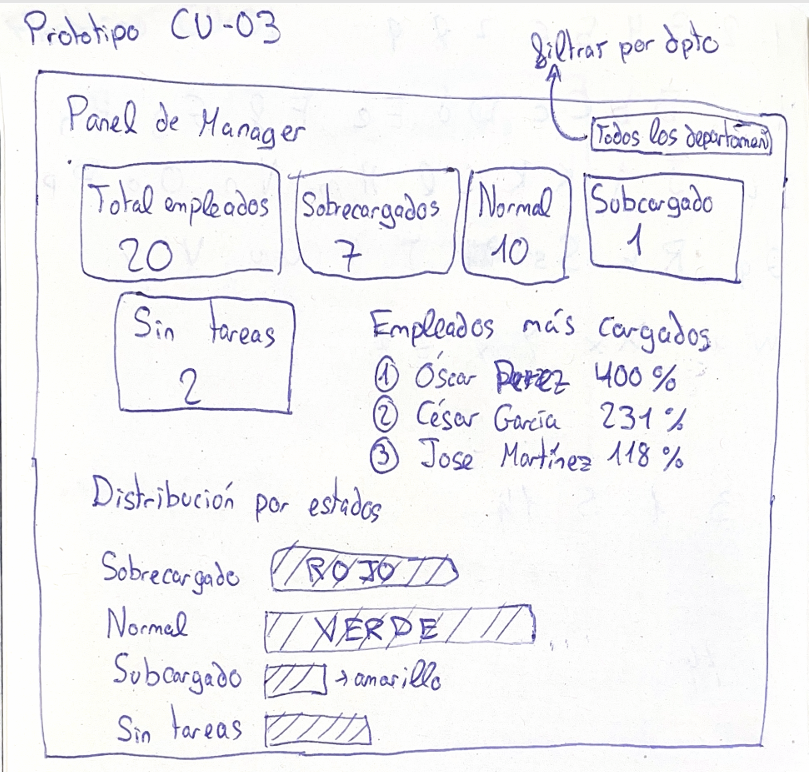
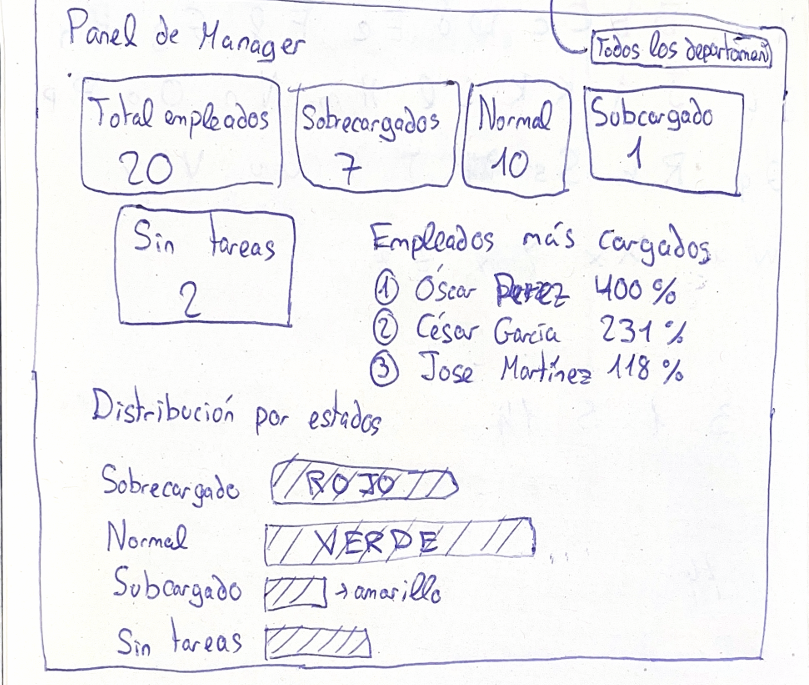
documentación de las vistas realizada

diff --git a/Estudiantes/cesar-garcia-eguiguren/Capítulo-2/DisciplinaDeRequisitos.md b/Estudiantes/cesar-garcia-eguiguren/Capítulo-2/DisciplinaDeRequisitos.md
@@ -52,7 +52,7 @@ Los CU de resumen son el "dashboard analítico" de cada entidad: agregan KPIs, m
 
 ### 1.3 Identificación de Casos de Uso
 
-A continuación se presenta la lista completa de los 24 casos de uso identificados, organizados en 8 paquetes.
+A continuación se presenta la lista completa de los 27 casos de uso identificados, organizados en 9 paquetes.
 
 #### Paquete 1 – Autenticación
 
@@ -629,12 +629,32 @@ Todos los casos de uso existentes para esta solución están documentados aquí:
 
 Los prototipos de baja fidelidad presentados a continuación representan la disposición visual de cada pantalla del sistema. Cada prototipo ilustra la estructura de la interfaz, la organización de los datos y los puntos de interacción disponibles para el usuario, sirviendo como referencia para la implementación del frontend en React.
 
+>Además de los prototipos asociados a casos de uso, el sistema incluye las siguientes pantallas de navegación y agregación que actúan como punto de entrada y supervisión global. No constituyen casos de uso en sí mismas, sino vistas compuestas que consolidan información procedente de múltiples casos de uso ya documentados.
+
+---
+
+### Pantalla de inicio — `/`
+
+Dashboard de bienvenida que actúa como punto de entrada al sistema tras completar CU-01. Muestra en la parte superior un banner de alertas activas (tareas vencidas sin cerrar y empleados sobrecargados) con navegación directa a los listados correspondientes. La sección central presenta cuatro KPIs globales (proyectos activos, empleados activos, tareas abiertas y tareas vencidas) y un gráfico de área con la evolución de horas imputadas en los últimos 14 días. En la parte inferior, un panel de salud operativa muestra los indicadores de cumplimiento de plazos, tasa de retrabajo y lead time con semáforo de color, junto a la distribución del equipo por estado de carga. Un panel de acceso rápido permite navegar directamente a cualquier sección del sistema.
+
+![Pantalla de inicio](./imagenes/prototipado/Vista-Overview.png)
+
+---
+
+### Pantalla de gestión de equipo — `/manager`
+
+Pantalla orientada a la supervisión de la distribución de carga de trabajo de toda la organización. Presenta cinco tarjetas numéricas con el total de empleados desglosado por estado (total, sobrecargado, normal, subcargado, sin tareas), cada una clickable para filtrar el listado inferior. La mitad derecha muestra un gráfico de barras horizontal con la distribución por estados, también interactivo. Al seleccionar un estado, se despliega un listado paginado de empleados con su porcentaje de carga, horas pendientes y barra de progreso, ordenable por cualquier columna con ordenación global server-side. Incluye un selector de departamento para restringir el análisis a un área concreta. Cada empleado del listado navega a CU-03.
+
+![Pantalla de gestión de equipo](./imagenes/prototipado/vista-Manager.png)
+
+---
+
 ### Prototipo CU-01 – Autenticarse
 Formulario de login centrado con campos de usuario y contraseña, botón de acceso y área de mensajes de error. Incluye el logo de la aplicación y la indicación de acceso restringido.
 
 ![Prototipo de autenticación](./imagenes/prototipado/CU-01.png)
----
 
+---
 ### Prototipo CU-02 – Listar Empleados
 Tabla paginada con barra de búsqueda por nombre, selector de departamento y toggle de empleados activos. Las columnas incluyen nombre, departamento, cargo, email, coste/h y badge de estado. Cada fila es clickable para acceder al resumen del empleado.
 
